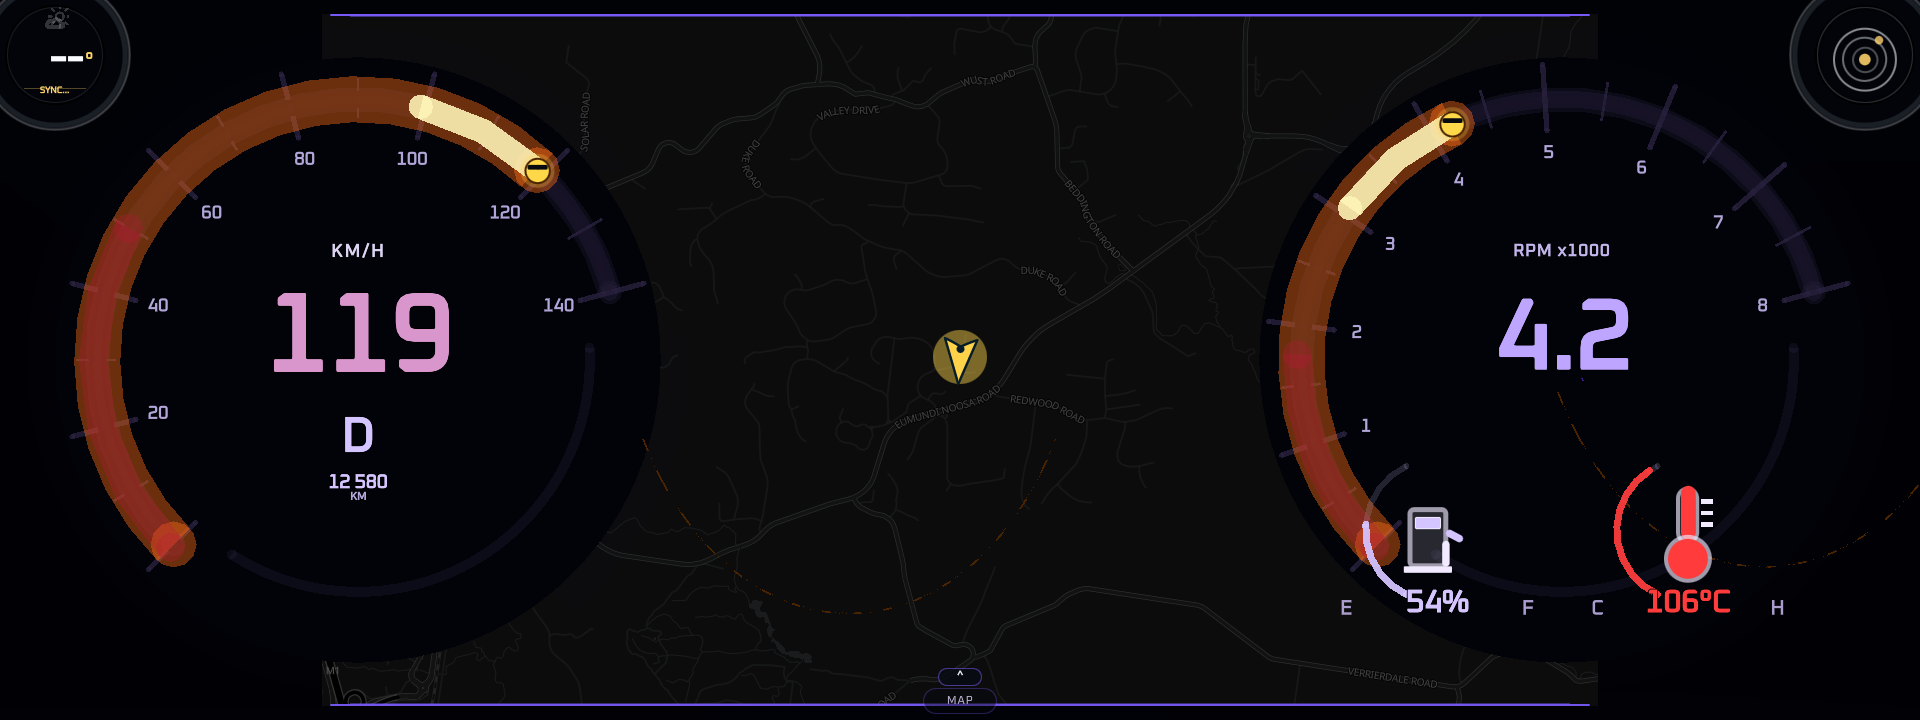
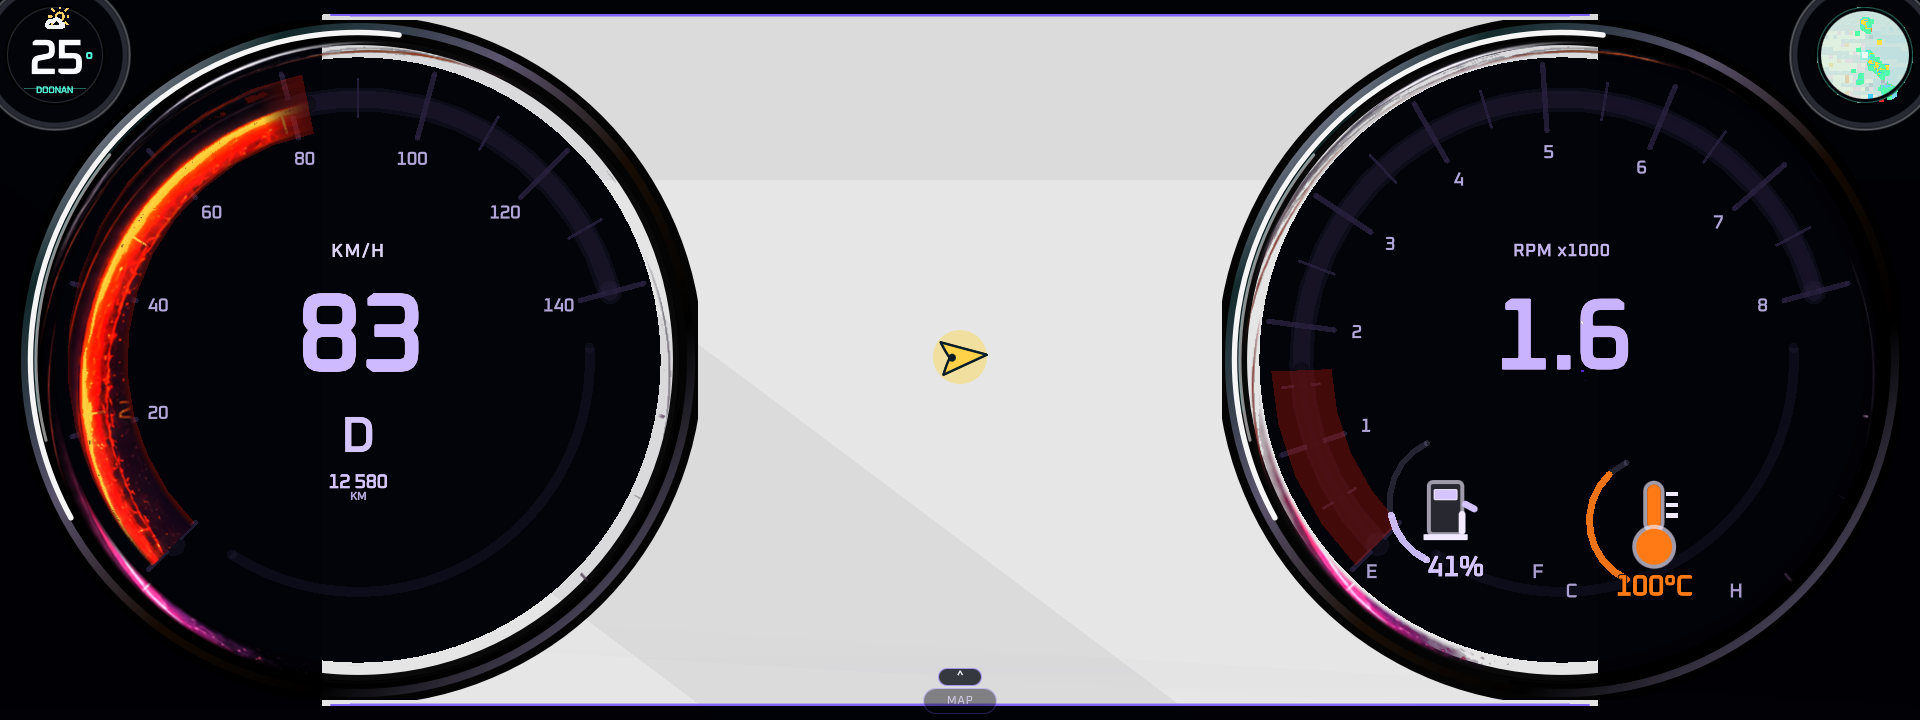
Skin v2: hotter atlas frames + MagmaAtlasOverlay (Qt6 drive)
Inline ShaderEffect fails on appliance Qt6 (expects .qsb); Image inside
DialChrome/QSG arc trees does not composite on PowerVR. Bake hotter
progress-clipped annulus frames and composite via MainV3 MagmaAtlasOverlay
sibling. Kill cream GaugeArcHead, thicken band, tighten twin pods, punch
numerals/rim. Drive capture updated; qml-dev left active.

diff --git a/src/ui/widgets/GaugeAtlasMagma.qml b/src/ui/widgets/GaugeAtlasMagma.qml
@@ -1,156 +1,32 @@
 import QtQuick 2.15
 import BeagleY 1.0
 
-// Concept-baked molten band without QtGraphicalEffects (not on appliance).
-// Atlas Image + ShaderEffect progress wedge (GPU). Drive-safe: no Canvas.
+// Soft under-bloom only. Atlas Image is MagmaAtlasOverlay (MainV3 sibling).
 Item {
     id: root
-
     property real progress: 0.0
     property real startAngleDeg: 225
     property real sweepAngleDeg: 210
     property real radiusFactor: 0.405
-    property real strokeWidthFactor: 0.053
+    property real strokeWidthFactor: 0.078
     property bool richMode: false
     property real lavaPhase: 0.0
     property url annulusSource: Qt.resolvedUrl("../assets/skin-v2/lava-annulus.png")
-
     readonly property real clampedProgress: Math.max(0, Math.min(1, progress))
-    readonly property real strokePx: Math.max(10, Math.min(width, height) * strokeWidthFactor)
+    readonly property real strokePx: Math.max(16, Math.min(width, height) * strokeWidthFactor)
     readonly property bool showBand: clampedProgress > 0.002
-    readonly property real side: Math.min(width, height)
 
-    // Soft under-bloom
     GaugeArcItem {
         anchors.fill: parent
-        z: 0
         visible: root.showBand
         startAngleDeg: root.startAngleDeg
         sweepAngleDeg: root.sweepAngleDeg
         startProgress: 0.0
         endProgress: root.clampedProgress
         radiusFactor: root.radiusFactor
-        strokeWidth: root.strokePx * (root.richMode ? 1.35 : 1.15)
-        color: Qt.rgba(1.0, 0.42, 0.08, root.richMode ? 0.42 : 0.30)
-        segments: root.richMode ? 40 : 28
-        roundedCaps: true
-    }
-
-    GaugeArcItem {
-        anchors.fill: parent
-        z: 0
-        visible: root.showBand && root.clampedProgress > 0.04
-        startAngleDeg: root.startAngleDeg
-        sweepAngleDeg: root.sweepAngleDeg
-        startProgress: 0.0
-        endProgress: Math.min(root.clampedProgress, Math.max(0.06, root.clampedProgress * 0.42))
-        radiusFactor: root.radiusFactor + 0.006
-        strokeWidth: root.strokePx * 0.85
-        color: Qt.rgba(0.72, 0.08, 0.22, root.richMode ? 0.28 : 0.18)
-        segments: 24
-        roundedCaps: true
-    }
-
-    Image {
-        id: atlasImage
-        anchors.centerIn: parent
-        width: root.side
-        height: root.side
-        source: root.annulusSource
-        fillMode: Image.PreserveAspectFit
-        asynchronous: true
-        smooth: true
-        mipmap: true
-        visible: false
-    }
-
-    ShaderEffectSource {
-        id: atlasSrc
-        sourceItem: atlasImage
-        hideSource: true
-        live: false
-        textureSize: Qt.size(640, 640)
-        smooth: true
-    }
-
-    Connections {
-        target: atlasImage
-        onStatusChanged: {
-            if (atlasImage.status === Image.Ready)
-                atlasSrc.scheduleUpdate()
-        }
-    }
-
-    ShaderEffect {
-        id: atlasFx
-        anchors.centerIn: parent
-        width: root.side
-        height: root.side
-        z: 2
-        visible: root.showBand && atlasImage.status === Image.Ready
-        blending: true
-        supportsAtlasTextures: false
-
-        property variant source: atlasSrc
-        property real progress: root.clampedProgress
-        property real startAngleDeg: root.startAngleDeg
-        property real sweepAngleDeg: root.sweepAngleDeg
-        property real radiusFactor: root.radiusFactor
-        // Half-band in UV units (radius is diameter*factor / side = factor when square)
-        property real bandHalf: (root.strokePx * 0.62) / Math.max(1.0, root.side)
-        property real soft: root.richMode ? 0.0045 : 0.0035
-
-        fragmentShader: "
-            varying highp vec2 qt_TexCoord0;
-            uniform sampler2D source;
-            uniform lowp float qt_Opacity;
-            uniform highp float progress;
-            uniform highp float startAngleDeg;
-            uniform highp float sweepAngleDeg;
-            uniform highp float radiusFactor;
-            uniform highp float bandHalf;
-            uniform highp float soft;
-
-            void main() {
-                highp vec2 p = qt_TexCoord0 - vec2(0.5, 0.5);
-                highp float r = length(p);
-                // Match GaugeArcItem: angle = rad(start-90) + rad(sweep)*u ; y-down cos/sin
-                highp float ang = atan(p.y, p.x);
-                highp float startRad = radians(startAngleDeg - 90.0);
-                highp float sweepRad = radians(sweepAngleDeg);
-                // Unwrap relative angle into [0, 2pi)
-                highp float rel = ang - startRad;
-                rel = mod(rel + 6.28318530718, 6.28318530718);
-                highp float u = rel / max(sweepRad, 0.0001);
-                highp float inSweep = step(0.0, u) * step(u, max(progress, 0.0));
-                highp float band = 1.0 - smoothstep(bandHalf, bandHalf + soft, abs(r - radiusFactor));
-                lowp vec4 tex = texture2D(source, qt_TexCoord0);
-                // Push toward concept molten family: hot orange-red, low blue
-                highp vec3 rgb = tex.rgb;
-                rgb = rgb * vec3(1.28, 0.92, 0.55) + vec3(0.10, 0.02, 0.0);
-                // Hot tip bias where atlas already bright
-                highp float hot = smoothstep(0.45, 0.85, rgb.r);
-                rgb = mix(rgb, vec3(1.0, 0.78, 0.28), hot * 0.35);
-                rgb = clamp(rgb, 0.0, 1.0);
-                lowp float a = tex.a * band * inSweep;
-                gl_FragColor = vec4(rgb * a, a) * qt_Opacity;
-            }
-        "
-    }
-
-    // Hot tip punch
-    GaugeArcItem {
-        anchors.fill: parent
-        z: 3
-        visible: root.showBand && root.clampedProgress > 0.01
-        startAngleDeg: root.startAngleDeg
-        sweepAngleDeg: root.sweepAngleDeg
-        startProgress: Math.max(0.0, root.clampedProgress - (root.richMode ? 0.14 : 0.16))
-        endProgress: root.clampedProgress
-        radiusFactor: root.radiusFactor
-        strokeWidth: root.strokePx * 0.72
-        color: Qt.rgba(1.0, 0.96, 0.72, root.richMode ? 0.88 : 0.78)
-        segments: 20
-        roundedCaps: true
+        strokeWidth: root.strokePx * 1.20
+        color: Qt.rgba(0.90, 0.10, 0.02, root.richMode ? 0.28 : 0.22)
+        segments: 32
+        roundedCaps: false
     }
 }

diff --git a/src/ui/MainV3.qml b/src/ui/MainV3.qml
@@ -2336,7 +2336,7 @@ Window {
                 gaugeColor: appTheme.lavaOrange
                 chromeColor: appTheme.lavaTrack
                 progress: Math.max(0, Math.min(1, root.liveGaugeSpeed / 140))
-                showArcHead: true
+                showArcHead: false
                 maxValue: 140
                 startAngleDeg: 225
                 sweepAngleDeg: 210
@@ -2345,6 +2345,13 @@ Window {
                 labelStep: 20
                 labelStart: 20
                 labelDivisor: 1
+            }
+
+            W.MagmaAtlasOverlay {
+                anchors.fill: speedGauge
+                z: root.mapLibreSafeCompositor ? 126 : 26
+                visible: root.gaugeLavaAccentEnabled
+                progress: Math.max(0, Math.min(1, root.liveGaugeSpeed / 140))
             }
 
             Item {
@@ -2492,7 +2499,7 @@ Window {
                         anchors.left: parent.left
                         anchors.right: parent.right
                         anchors.bottom: parent.bottom
-                        height: parent.height * 0.42
+                        height: parent.height * 0.48
                         clip: true
                         Text {
                             anchors.horizontalCenter: parent.horizontalCenter
@@ -2501,7 +2508,7 @@ Window {
                             height: speedValueText.height
                             text: speedValueText.text
                             color: appTheme.pearlHigh
-                            opacity: 0.55
+                            opacity: 0.82
                             font: speedValueText.font
                             renderType: speedValueText.renderType
                             horizontalAlignment: Text.AlignHCenter
@@ -2511,7 +2518,7 @@ Window {
                         anchors.left: parent.left
                         anchors.right: parent.right
                         anchors.top: parent.top
-                        height: parent.height * 0.58
+                        height: parent.height * 0.62
                         clip: true
                         Text {
                             anchors.horizontalCenter: parent.horizontalCenter
@@ -2520,7 +2527,7 @@ Window {
                             height: speedValueText.height
                             text: speedValueText.text
                             color: "#FFFFFFFF"
-                            opacity: 0.78
+                            opacity: 0.94
                             font: speedValueText.font
                             renderType: speedValueText.renderType
                             horizontalAlignment: Text.AlignHCenter
@@ -2764,7 +2771,7 @@ Window {
                 gaugeColor: appTheme.lavaOrange
                 chromeColor: appTheme.lavaTrack
                 progress: Math.max(0, Math.min(1, root.liveGaugeRpm / 8000))
-                showArcHead: true
+                showArcHead: false
                 maxValue: 8000
                 startAngleDeg: 225
                 sweepAngleDeg: 210
@@ -2773,6 +2780,13 @@ Window {
                 labelStep: 1000
                 labelStart: 1000
                 labelDivisor: 1000
+            }
+
+            W.MagmaAtlasOverlay {
+                anchors.fill: speedGauge
+                z: root.mapLibreSafeCompositor ? 126 : 26
+                visible: root.gaugeLavaAccentEnabled
+                progress: Math.max(0, Math.min(1, root.liveGaugeSpeed / 140))
             }
 
             Item {
@@ -2864,7 +2878,7 @@ Window {
                         anchors.left: parent.left
                         anchors.right: parent.right
                         anchors.bottom: parent.bottom
-                        height: parent.height * 0.42
+                        height: parent.height * 0.48
                         clip: true
                         Text {
                             anchors.horizontalCenter: parent.horizontalCenter
@@ -2873,7 +2887,7 @@ Window {
                             height: rpmValueText.height
                             text: rpmValueText.text
                             color: appTheme.pearlHigh
-                            opacity: 0.52
+                            opacity: 0.80
                             font: rpmValueText.font
                             renderType: rpmValueText.renderType
                             horizontalAlignment: Text.AlignHCenter
@@ -2883,7 +2897,7 @@ Window {
                         anchors.left: parent.left
                         anchors.right: parent.right
                         anchors.top: parent.top
-                        height: parent.height * 0.58
+                        height: parent.height * 0.62
                         clip: true
                         Text {
                             anchors.horizontalCenter: parent.horizontalCenter
@@ -2892,7 +2906,7 @@ Window {
                             height: rpmValueText.height
                             text: rpmValueText.text
                             color: "#FFFFFFFF"
-                            opacity: 0.74
+                            opacity: 0.92
                             font: rpmValueText.font
                             renderType: rpmValueText.renderType
                             horizontalAlignment: Text.AlignHCenter

diff --git a/src/ui/widgets/DialChrome.qml b/src/ui/widgets/DialChrome.qml
@@ -12,7 +12,7 @@ Item {
     property real progress: 0.0
     property real lavaPhase: 0.0
     property bool scaredHead: false
-    property bool showArcHead: true
+    property bool showArcHead: false
     // Slice 6: lava/matrix accent over NativeGaugeInstrument — no ticks/labels/track
     property bool accentOverlayMode: false
     property real maxValue: 100
@@ -352,7 +352,7 @@ Item {
         startAngleDeg: root.startAngleDeg
         sweepAngleDeg: root.sweepAngleDeg
         radiusFactor: root.arcRadiusFactor
-        strokeWidthFactor: 0.053
+        strokeWidthFactor: 0.078
         richMode: root.richAtlasMode
         lavaPhase: root.lavaPhase
     }
@@ -974,7 +974,7 @@ Item {
     GaugeArcHead {
         id: arcHead
         z: 24
-        visible: (root.lavaAnimationEnabled || root.accentOverlayMode) && root.showArcHead && root.headVisible
+        visible: !root.atlasMagmaMode && (root.lavaAnimationEnabled || root.accentOverlayMode) && root.showArcHead && root.headVisible
         lowEffectMode: root.lowEffectMode
         scared: root.scaredHead
         headRadius: root.sgMagmaMode ? (root.headScreenRadius * 1.15) : root.headScreenRadius

diff --git a/src/ui/widgets/TwinMicroArcs.qml b/src/ui/widgets/TwinMicroArcs.qml
@@ -30,12 +30,12 @@ Item {
 
     Item {
         id: fuelPod
-        width: parent.width * 0.30
-        height: parent.height * 0.275
+        width: parent.width * 0.275
+        height: parent.height * 0.250
         anchors.left: parent.left
-        anchors.leftMargin: parent.width * 0.155
+        anchors.leftMargin: parent.width * 0.195
         anchors.bottom: parent.bottom
-        anchors.bottomMargin: parent.height * 0.098
+        anchors.bottomMargin: parent.height * 0.155
         z: 2
 
         GaugeArcItem {
@@ -159,12 +159,12 @@ Item {
 
     Item {
         id: tempPod
-        width: parent.width * 0.30
-        height: parent.height * 0.275
+        width: parent.width * 0.275
+        height: parent.height * 0.250
         anchors.right: parent.right
-        anchors.rightMargin: parent.width * 0.155
+        anchors.rightMargin: parent.width * 0.220
         anchors.bottom: parent.bottom
-        anchors.bottomMargin: parent.height * 0.098
+        anchors.bottomMargin: parent.height * 0.125
         z: 2
 
         GaugeArcItem {

diff --git a/src/ui/widgets/GaugeLensShell.qml b/src/ui/widgets/GaugeLensShell.qml
@@ -106,16 +106,16 @@ Item {
 
             // Specular highlight arc (top-left glass catch) — concept white rim punch
             ctx.beginPath()
-            ctx.strokeStyle = "rgba(255,255,255,0.86)"
-            ctx.lineWidth = Math.max(3.0, side * 0.0065)
+            ctx.strokeStyle = "rgba(255,255,255,0.96)"
+            ctx.lineWidth = Math.max(3.6, side * 0.0080)
             ctx.lineCap = "round"
             ctx.arc(cx, cy, rimRadius - side * 0.008, Math.PI * 0.84, Math.PI * 1.54)
             ctx.stroke()
 
             // Soft white secondary specular (shorter)
             ctx.beginPath()
-            ctx.strokeStyle = "rgba(255,255,255,0.35)"
-            ctx.lineWidth = Math.max(1.8, side * 0.0035)
+            ctx.strokeStyle = "rgba(255,255,255,0.55)"
+            ctx.lineWidth = Math.max(2.2, side * 0.0045)
             ctx.lineCap = "round"
             ctx.arc(cx, cy, rimRadius - side * 0.016, Math.PI * 0.92, Math.PI * 1.22)
             ctx.stroke()

diff --git a/src/ui/widgets/MagmaAtlasOverlay.qml b/src/ui/widgets/MagmaAtlasOverlay.qml
@@ -1,0 +1,28 @@
+import QtQuick 2.15
+
+// Atlas magma as Image sibling of DialChrome (PowerVR: Image inside DialChrome/QSG arc tree does not composite).
+Item {
+    id: root
+    property real progress: 0.0
+    property real gaugeSide: Math.min(width, height)
+
+    readonly property real clampedProgress: Math.max(0, Math.min(1, progress))
+    readonly property int frameIndex: Math.max(0, Math.min(20, Math.round(clampedProgress * 20)))
+    readonly property string framePath: "../assets/skin-v2/progress/lava-p"
+        + (frameIndex < 10 ? "0" : "") + frameIndex + ".png"
+
+    visible: clampedProgress > 0.002
+
+    Image {
+        anchors.centerIn: parent
+        width: root.gaugeSide
+        height: root.gaugeSide
+        source: Qt.resolvedUrl(root.framePath)
+        fillMode: Image.PreserveAspectFit
+        asynchronous: false
+        cache: true
+        smooth: true
+        mipmap: false
+        opacity: status === Image.Ready ? 1.0 : 0.0
+    }
+}
